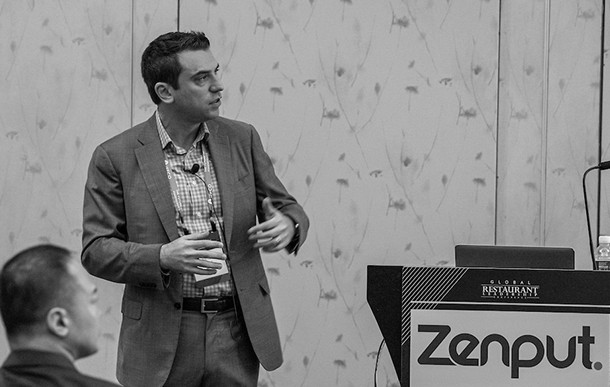
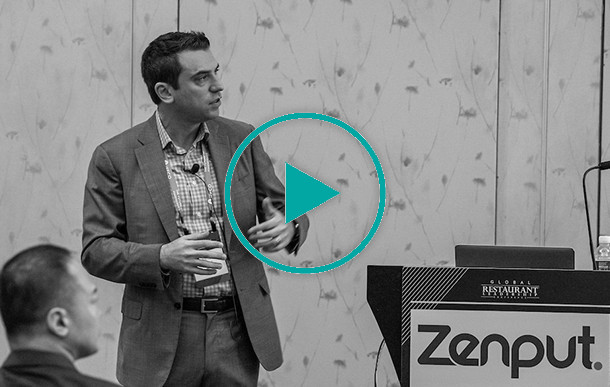
Implement YouTube video as a modal

Changed region(s): [[0.3426, 0.2791, 0.6541, 0.7132], [0.4672, 0.4031, 0.5607, 0.5891]]

diff --git a/index.html b/index.html
@@ -253,68 +253,30 @@
     <div class="pb-container">
 
 
-      <div id="pb-block-136433" class="pb-block pb-block-type-columns  "
-           style="padding-bottom: 75px; ">
+      <div id="pb-block-136433" class="pb-block pb-block-type-columns  " style="padding-bottom: 75px; ">
         <div class="container">
-
-
           <div class="row">
-
-
             <div class="col-12 pb-block-column pb-block-column-136433 col-md-6 ">
-
-
-              <div id="pb-block-136437" class="pb-block pb-block-type-video text-left "
-                   style="padding-bottom: 75px; padding-top: 0px;">
-
-
+              <div id="pb-block-136437" class="pb-block pb-block-type-video text-left " style="padding-bottom: 0px; padding-top: 0px;">
                 <div class="talk-video-wrapper">
-
                   <div class="talk-video-youtube">
-                    <iframe src="https://www.youtube.com/embed/ScMzIvxBSi4?modestbranding=1&showinfo=0&rel=0"
-                            width="100%" height="410.625" frameborder="0" allow="encrypted-media"
-                            allowfullscreen></iframe>
+                    <iframe src="https://www.youtube.com/embed/ScMzIvxBSi4?modestbranding=1&amp;showinfo=0&amp;rel=0" width="100%" height="410.625" frameborder="0" allow="encrypted-media" allowfullscreen=""></iframe>
                   </div>
-
                 </div>
-
-
               </div>
-
-
             </div>
-
 
             <div class="col-12 pb-block-column pb-block-column-136433 col-md-6 ">
-
-
-              <div id="pb-block-136434" class="pb-block pb-block-type-text text-left "
-                   style="padding-bottom: 75px; padding-top: 0px;">
-
-
+              <div id="pb-block-136434" class="pb-block pb-block-type-text text-left " style="padding-bottom: 0px; padding-top: 0px;">
                 <div class="editable">
-
-                  <h2>
-
-                    Welcome from Vlad</h2>
-                  <p>Enter Sed ut perspiciatis, unde omnis iste natus error sit voluptatem accusantium doloremque
-                    laudantium, totam rem aperiam eaque ipsa, quae ab illo inventore veritatis et quasi architecto
-                    beatae vitae dicta sunt, explicabo. text here...<br></p>
-
+                  <h2>Welcome from Vlad</h2>
+                  <p>Enter Sed ut perspiciatis, unde omnis iste natus error sit voluptatem accusantium doloremque laudantium, totam rem aperiam eaque ipsa, quae ab illo inventore veritatis et quasi architecto beatae vitae dicta sunt, explicabo. text here...</p>
                 </div>
-
-
               </div>
-
-
             </div>
-
           </div>
-
-
         </div>
       </div>
-
 
       <div id="pb-block-136438" class="pb-block pb-block-type-text text-center "
            style="padding-bottom: 0px; padding-top: 0px;">

diff --git a/agility-summit.js b/agility-summit.js
@@ -8,6 +8,43 @@
  */
 if (typeof $ === 'function') {
   $(document).ready(function() {
-    console.log("ready!");
+    // Get the iframe and its wrapper.
+    var $iframe = $('#pb-block-136437').find('.talk-video-wrapper').html();
+
+    // Toggle for replacing the iframe on load with a button image.
+    var newContents = `<button data-toggle="modal" data-target="#video-modal" class="modal-toggle hover-state button--no-styles">
+      <img src="https://solveitonce.com/agility-summit/vlad_bw.jpg" alt="Open the video modal" class="img-fluid" />
+    </button>`;
+
+    // New modal on the bottom of the page.
+    var videoModal = `<div class="modal content-ready fade" id="video-modal" tabindex="-1" role="dialog">
+      <div class="modal-dialog modal-dialog-centered" role="document">
+        <div class="modal-content">
+          <div class="modal-header">
+            <h5 class="modal-title">Vlad's Introduction</h5>
+            <button type="button" class="close" data-dismiss="modal" aria-label="Close">
+              <svg class="svg-inline--fa fa-times-circle fa-w-16 color-red" aria-hidden="true" 
+                data-prefix="far" data-icon="times-circle" role="img" xmlns="http://www.w3.org/2000/svg" 
+                viewBox="0 0 512 512" data-fa-i2svg="">
+                <path fill="currentColor" d="M256 8C119 8 8 119 8 256s111 248 248 248 248-111 248-248S393 8 256 8zm0 448c-110.5 0-200-89.5-200-200S145.5 56 256 56s200 89.5 200 200-89.5 200-200 200zm101.8-262.2L295.6 256l62.2 62.2c4.7 4.7 4.7 12.3 0 17l-22.6 22.6c-4.7 4.7-12.3 4.7-17 0L256 295.6l-62.2 62.2c-4.7 4.7-12.3 4.7-17 0l-22.6-22.6c-4.7-4.7-4.7-12.3 0-17l62.2-62.2-62.2-62.2c-4.7-4.7-4.7-12.3 0-17l22.6-22.6c4.7-4.7 12.3-4.7 17 0l62.2 62.2 62.2-62.2c4.7-4.7 12.3-4.7 17 0l22.6 22.6c4.7 4.7 4.7 12.3 0 17z"></path>
+              </svg>
+            </button>
+          </div>
+          <div class="modal-body">
+            <p class="no-margin-bottom"></p>
+          </div>
+        </div>
+      </div>
+    </div>`;
+
+    // Put the video modal at the bottom of the page.
+    $('body').append(videoModal);
+
+    // Modify the video modal.
+    $('#video-modal')
+      .find('.modal-body').html($iframe).end();
+
+    // Replace the header iframe with the toggle.
+    $('#pb-block-136437').html(newContents);
   });
 }

diff --git a/agility-summit.css b/agility-summit.css
@@ -11,10 +11,42 @@ body {
 }
 
 /**
+ * Headings and other page elements use the secondary font.
+ */
+.font-family--secondary,
+.event-navbar,
+h1,
+h2 {
+  font-family: 'Montserrat', Verdana, sans-serif;
+}
+
+/**
+ * Make the navbar a little tighter.
+ */
+header .navbar {
+  padding: 30px 0;
+}
+
+/**
  * Light blue background sections.
  */
-#pb-block-136628 {
+.background-color--blue-light,
+#pb-block-136628,
+#pb-block-136433 {
   background-color: #e0f4f5;
   padding-top: 70px !important;
   padding-bottom: 70px !important;
+}
+
+/**
+ * Dark blue sections (no spacing).
+ */
+.background-color--blue-dark,
+#pb-block-136438,
+#pb-block-136537 {
+  background-color: #353f58;
+  color: #fff;
+}
+#pb-block-136438 h2 {
+  color: #fff;
 }
